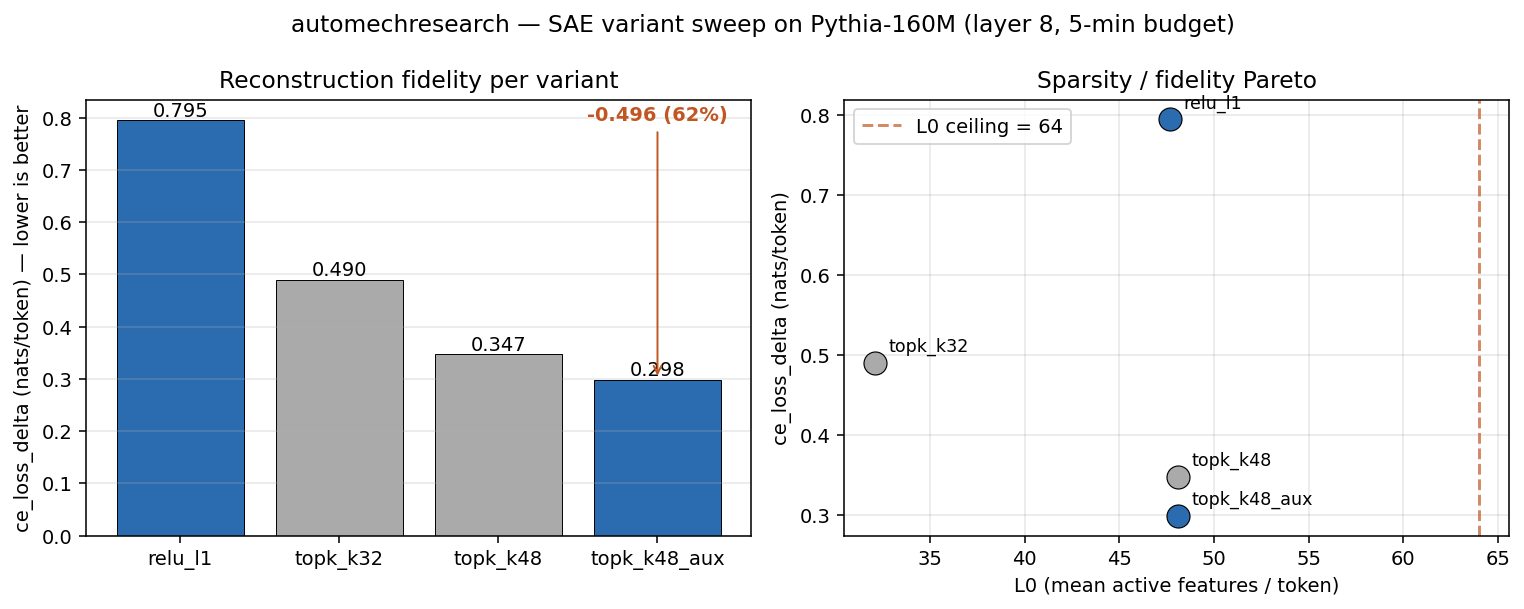
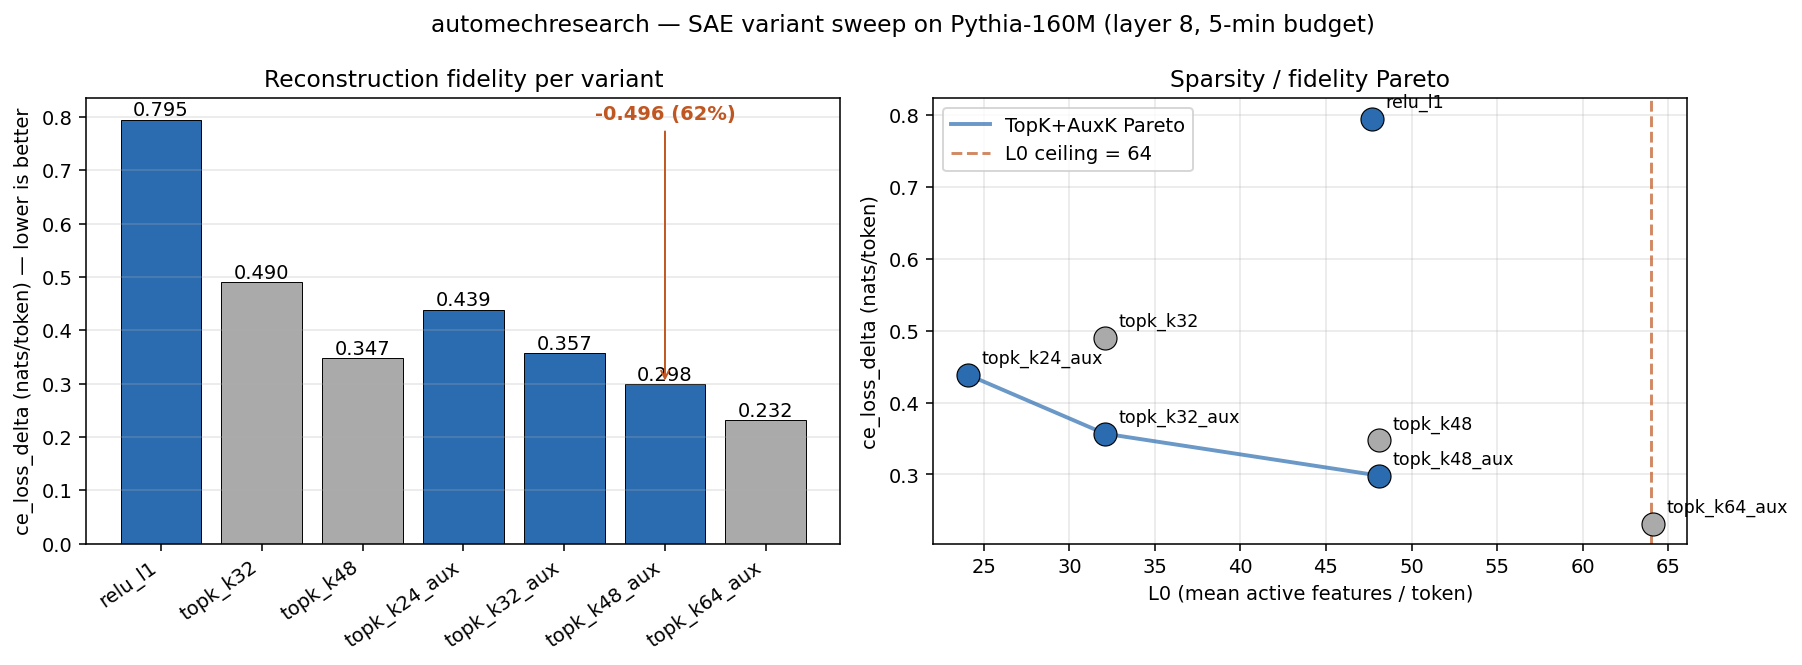
research: K-sweep (24/32/48/64 w/ AuxK) — Pareto curve + K=64 edge-case finding

diff --git a/bench/plot.py b/bench/plot.py
@@ -39,11 +39,14 @@ def main() -> None:
     l0s = [r["l0"] for r in rows]
     valids = [bool(r["valid"]) for r in rows]
 
-    fig, (ax1, ax2) = plt.subplots(1, 2, figsize=(11, 4.4))
+    fig, (ax1, ax2) = plt.subplots(1, 2, figsize=(13, 4.8))
 
     # --- Left: bar chart of ce_loss_delta (lower is better)
     colors = ["#2b6cb0" if v else "#aaaaaa" for v in valids]
     bars = ax1.bar(names, deltas, color=colors, edgecolor="black", linewidth=0.5)
+    ax1.tick_params(axis="x", labelrotation=35)
+    for lbl in ax1.get_xticklabels():
+        lbl.set_horizontalalignment("right")
     ax1.set_ylabel("ce_loss_delta (nats/token) — lower is better")
     ax1.set_title("Reconstruction fidelity per variant")
     ax1.grid(axis="y", alpha=0.3)
@@ -73,7 +76,20 @@ def main() -> None:
                 fontweight="bold",
             )
 
-    # --- Right: Pareto scatter
+    # --- Right: Pareto curve (AuxK variants connected by K order) + other variants scattered.
+    aux_rows = [r for r in rows if r["variant"].endswith("_aux") and r["valid"]]
+    aux_rows.sort(key=lambda r: r["l0"])
+    if len(aux_rows) >= 2:
+        ax2.plot(
+            [r["l0"] for r in aux_rows],
+            [r["ce_loss_delta"] for r in aux_rows],
+            "-",
+            color="#2b6cb0",
+            linewidth=2,
+            alpha=0.7,
+            zorder=2,
+            label="TopK+AuxK Pareto",
+        )
     for n, l0, d, ok in zip(names, l0s, deltas, valids):
         ax2.scatter(
             l0,

diff --git a/bench/compare.py b/bench/compare.py
@@ -88,9 +88,24 @@ VARIANTS: list[Variant] = [
         loss_fn=lambda sae, x, r, f: topk_loss(sae, x, r, f, None),
     ),
     Variant(
+        name="topk_k24_aux",
+        make=lambda: TopKAuxSAE(D_MODEL, expansion=8, k=24, k_aux=512),
+        loss_fn=None,
+    ),
+    Variant(
+        name="topk_k32_aux",
+        make=lambda: TopKAuxSAE(D_MODEL, expansion=8, k=32, k_aux=512),
+        loss_fn=None,
+    ),
+    Variant(
         name="topk_k48_aux",
         make=lambda: TopKAuxSAE(D_MODEL, expansion=8, k=48, k_aux=512),
         loss_fn=None,  # special-cased in run_variant
+    ),
+    Variant(
+        name="topk_k64_aux",
+        make=lambda: TopKAuxSAE(D_MODEL, expansion=8, k=64, k_aux=512),
+        loss_fn=None,
     ),
 ]
 

diff --git a/README.md b/README.md
@@ -6,7 +6,7 @@
 
 ![SAE variant sweep](bench/compare.png)
 
-*Demo sweep (`bench/compare.py`): four architectures, five-minute budget each. Blue = valid (passes all constraints); grey = invalid (fails `dead_fraction ≤ 0.10`). The winning TopK + AuxK variant (Gao+2024) cuts `ce_loss_delta` by **62%** vs. the ReLU + L1 baseline while keeping every constraint. This is roughly two autonomous-loop iterations — the overnight agent runs ~80.*
+*Demo sweep (`bench/compare.py`): seven SAE configurations, five minutes of training each. Blue = valid (passes all constraints); grey = invalid. Left panel: `ce_loss_delta` per variant (lower = better). Right panel: the sparsity/fidelity Pareto traced by TopK+AuxK as K varies from 24 to 64. Key findings from this mini-sweep: (1) naive TopK beats L1 on reconstruction but kills half its features — Gao+2024's AuxK fixes that; (2) on this target, the best valid variant is `topk_k48_aux` at **0.298 nats/token — a 62% cut over the ReLU+L1 baseline**; (3) pushing K all the way to the L0 ceiling (`topk_k64_aux`, lowest right point) actually reconstructs better still but measures L0=64.1 and fails the constraint by a hair — a real "don't just max it out" lesson. This is ~7 autonomous-loop iterations; the overnight agent runs ~80.*
 
 ## The big idea: `val_bpb` for SAEs
 
